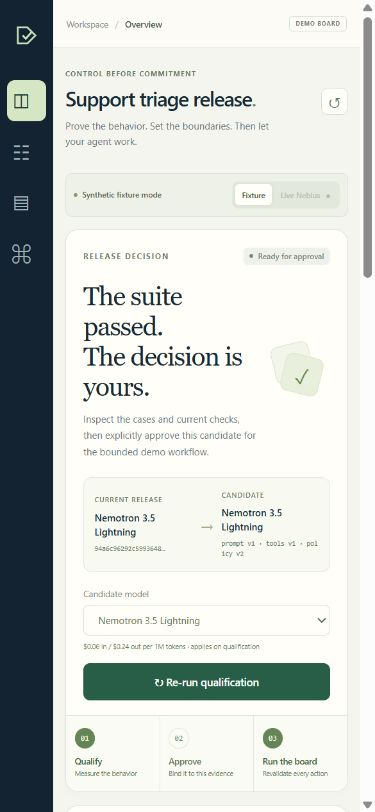
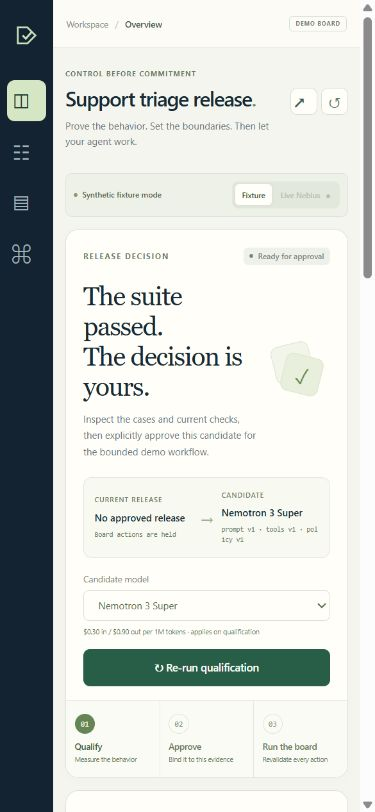
Require durable live budget authority and retain interrupted reservations

diff --git a/web/styles.css b/web/styles.css
@@ -3,7 +3,7 @@
 @media(min-width:1500px){main{padding-top:42px}.page-heading{margin-bottom:30px}.overview-grid{gap:22px}.panel{padding:27px}.release-card{padding-bottom:0}.workflow-steps{margin:0 -27px}.decision-heading h2{font-size:36px}.decision-heading p{font-size:12px}.model-comparison{padding:20px}.release-controls{margin-top:22px;margin-bottom:24px}.governance-card{grid-column:span 1}.drift-card{grid-column:span 2}}
 @media(max-width:1200px){.sidebar{width:210px;padding-left:15px;padding-right:15px}.app-shell{margin-left:210px}.brand{font-size:19px}.brand-mark{width:31px}.stack .workspace-label{font-size:7px}.stack small{font-size:8px}main{padding:28px 24px 0}.topbar{padding:0 24px}.overview-grid{grid-template-columns:minmax(0,1fr) minmax(0,1fr)}.release-card{grid-column:span 2}.budget-card{grid-column:span 1;grid-row:2}.governance-card{grid-column:span 1;grid-row:2}.drift-card{grid-column:span 2}.decision-heading p{max-width:440px}.proof-glyph{margin-right:35px}.release-controls .model-picker{max-width:350px}.step{padding:16px 23px}.source-indicator>span:last-child{display:none}.section-heading{align-items:start}.section-heading .button-row{justify-content:flex-end;max-width:330px}.metrics-grid{gap:10px}.metric-card{padding:17px 14px}.metric-card strong{font-size:24px}.page-heading h1{font-size:28px}}
 @media(max-width:850px){.sidebar{width:72px;padding:22px 10px;align-items:center}.brand>span,.sidebar>.workspace-label,.workspace,.sidebar-note,.stack,.sidebar-footer,.nav-arrow,.nav-count{display:none}.brand-mark{width:35px;height:35px}.navigation{margin-top:35px;gap:10px;width:100%}.nav-item{font-size:0;justify-content:center;padding:13px 5px}.nav-icon{font-size:23px;width:25px}.app-shell{margin-left:72px}.topbar{height:56px;padding:0 20px}main{padding:26px 20px 0}.page-heading{align-items:start}.page-heading h1{font-size:25px}.page-heading p{max-width:300px;font-size:11px}.eyebrow{font-size:8px}.heading-actions .button{font-size:0;width:33px;height:33px;padding:0}.heading-actions .button span{font-size:17px}.page-heading{gap:10px}.overview-grid{gap:13px}.panel{padding:20px}.release-card{padding-bottom:0}.workflow-steps{margin:0 -20px}.step{padding:14px;gap:7px}.step small{font-size:7px}.governance-card,.budget-card{padding:18px}.budget-total>strong{font-size:29px}.panel h3{font-size:18px}.source-indicator strong{font-size:9px}.bottom-note .text-button{display:none}.main-footer{font-size:8px}.main-footer>span:last-child{display:none}.section-heading{flex-direction:column;gap:15px}.section-heading .button-row{max-width:none;justify-content:flex-start}.metrics-grid{grid-template-columns:repeat(2,1fr)}.evidence-grid,.issue-grid{grid-template-columns:1fr}.case-item>summary{grid-template-columns:18px 1fr 65px 20px;gap:6px}.case-item>summary>.case-numeric:nth-last-child(2){display:none}.case-title{font-size:10px}.case-comparison{grid-template-columns:1fr}.busy-banner small{display:none}.toast{left:calc(50% + 36px);width:calc(100% - 115px);font-size:11px}.event-row{grid-template-columns:22px minmax(0,1fr) 90px}.decision-heading h2{font-size:30px}.proof-glyph{margin-right:5px}.governance-card .button-row{gap:5px}.governance-card .button.small{padding:7px;font-size:8px}}
-@media(max-width:560px){.sidebar{width:55px;padding:19px 7px}.brand-mark{width:30px}.app-shell{margin-left:55px}.navigation{margin-top:29px}.nav-item{padding:11px 4px}.nav-icon{font-size:21px}.topbar{padding:0 14px;height:50px}.breadcrumb{font-size:9px;gap:7px}.topbar-right{gap:0}.environment-tag{font-size:6px;letter-spacing:.6px}.session-tag{display:none}main{padding:22px 13px 0}.page-heading h1{font-size:21px;letter-spacing:-.8px}.page-heading p{font-size:10px;max-width:230px;line-height:1.6}.page-heading .eyebrow{font-size:7px;letter-spacing:1px}.heading-actions{gap:4px;padding-top:19px}.heading-actions .button{display:none}.icon-button{width:28px;height:28px;font-size:16px}.mode-bar{padding:8px;gap:7px;border-radius:7px;margin-bottom:13px}.source-indicator{gap:5px}.source-indicator strong{font-size:8px;white-space:normal;line-height:1.4;max-width:100px}.source-dot{width:4px;height:4px;flex-shrink:0}.mode-button{font-size:8px;padding:5px 7px}.overview-grid{grid-template-columns:1fr;gap:13px}.release-card,.budget-card,.governance-card,.drift-card{grid-column:auto;grid-row:auto}.panel{padding:18px}.release-card{padding-bottom:0}.panel-top{margin-bottom:17px}.panel-top .eyebrow{font-size:8px;letter-spacing:1.1px}.badge{font-size:8px;padding:4px 6px}.decision-heading{gap:12px;margin-bottom:18px}.decision-heading h2{font-size:27px;letter-spacing:-.8px}.decision-heading p{font-size:10px;margin-top:9px;line-height:1.7}.proof-glyph{flex-basis:50px;width:50px;height:66px;margin:0 9px 0 0}.proof-glyph>div{width:40px;height:40px;left:0;top:5px;border-radius:8px}.proof-glyph>div+div{left:10px;top:17px}.proof-glyph>span{inset:23px 0 0 22px;font-size:21px}.model-comparison{padding:13px 11px;gap:8px;grid-template-columns:1fr 15px 1fr}.model-comparison strong{font-size:10px}.field-label{font-size:7px;letter-spacing:.7px}.model-comparison small{font-size:7px}.compare-arrow{font-size:17px}.release-controls{align-items:stretch;flex-direction:column;gap:12px;margin:15px 0}.release-controls .model-picker{max-width:none}.release-controls .button{font-size:11px;padding:11px}.workflow-steps{margin:0 -18px}.step{padding:13px 9px;flex-direction:column;align-items:flex-start;gap:6px}.step>span{width:21px;height:21px;font-size:8px}.step strong{font-size:9px}.step small{font-size:7px;white-space:normal;line-height:1.5}.budget-card .panel-top{margin-bottom:8px}.budget-track{margin-top:18px}.budget-facts{margin-top:17px}.budget-facts>div{font-size:11px}.budget-legend{font-size:9px;gap:16px}.card-footnote{font-size:9px}.panel h3{font-size:19px}.section-description{font-size:10px}.check-row{font-size:10px}.governance-card .button.small{font-size:10px;padding:8px 10px}.drift-stat-row{gap:7px}.drift-stat-row strong{font-size:21px}.drift-stat-row>div:last-child strong{font-size:13px}.canary-controls{gap:9px;flex-direction:column;align-items:stretch}.canary-controls .button{padding:10px;font-size:10px}.mitigation-actions{gap:5px}.mitigation-actions button{padding:8px 5px;font-size:9px;gap:6px}.bottom-note{align-items:start;margin-top:17px;gap:10px}.bottom-note p{font-size:9px}.bottom-note>span{font-size:21px}.section-heading h2{font-size:24px}.section-heading p{font-size:10px}.section-heading .button-row{gap:6px}.section-heading .button-row select{font-size:9px;flex:1}.section-heading .button-row .button{width:100%;margin-top:3px}.metric-card{padding:15px}.metric-card strong{font-size:23px}.metric-card small{font-size:8px}.case-item>summary{grid-template-columns:15px 1fr 20px}.case-item>summary>.case-numeric{display:none}.case-title{font-size:10px}.empty-state{padding:25px 7px 33px}.empty-state p{font-size:10px}.empty-state h3{font-size:18px}.case-meta{font-size:8px;gap:8px}.code-block pre{font-size:9px}.page-footnote{font-size:9px}.issue-card{padding:18px}.issue-body{font-size:10px}.issue-card h3{font-size:15px}.issue-bottom .button{font-size:9px;padding:8px}.event-row{grid-template-columns:19px minmax(0,1fr);gap:9px}.event-right{grid-column:2;text-align:left;display:flex;align-items:center;gap:10px;margin-top:-5px}.event-time{margin:0}.event-title{font-size:10px}.event-detail{font-size:9px}.main-footer{margin-top:28px;font-size:8px}.toast{left:calc(50% + 27px);width:calc(100% - 85px);bottom:15px;padding:11px 14px}.error-banner{font-size:10px;padding:10px}.busy-banner{font-size:10px;padding:9px 11px}.skip-link{left:65px}}
+@media(max-width:560px){.sidebar{width:55px;padding:19px 7px}.brand-mark{width:30px}.app-shell{margin-left:55px}.navigation{margin-top:29px}.nav-item{padding:11px 4px}.nav-icon{font-size:21px}.topbar{padding:0 14px;height:50px}.breadcrumb{font-size:9px;gap:7px}.topbar-right{gap:0}.environment-tag{font-size:6px;letter-spacing:.6px}.session-tag{display:none}main{padding:22px 13px 0}.page-heading h1{font-size:21px;letter-spacing:-.8px}.page-heading p{font-size:10px;max-width:230px;line-height:1.6}.page-heading .eyebrow{font-size:7px;letter-spacing:1px}.heading-actions{gap:4px;padding-top:19px}.heading-actions .button{display:inline-flex;width:28px;height:28px}.icon-button{width:28px;height:28px;font-size:16px}.mode-bar{padding:8px;gap:7px;border-radius:7px;margin-bottom:13px}.source-indicator{gap:5px}.source-indicator strong{font-size:8px;white-space:normal;line-height:1.4;max-width:100px}.source-dot{width:4px;height:4px;flex-shrink:0}.mode-button{font-size:8px;padding:5px 7px}.overview-grid{grid-template-columns:1fr;gap:13px}.release-card,.budget-card,.governance-card,.drift-card{grid-column:auto;grid-row:auto}.panel{padding:18px}.release-card{padding-bottom:0}.panel-top{margin-bottom:17px}.panel-top .eyebrow{font-size:8px;letter-spacing:1.1px}.badge{font-size:8px;padding:4px 6px}.decision-heading{gap:12px;margin-bottom:18px}.decision-heading h2{font-size:27px;letter-spacing:-.8px}.decision-heading p{font-size:10px;margin-top:9px;line-height:1.7}.proof-glyph{flex-basis:50px;width:50px;height:66px;margin:0 9px 0 0}.proof-glyph>div{width:40px;height:40px;left:0;top:5px;border-radius:8px}.proof-glyph>div+div{left:10px;top:17px}.proof-glyph>span{inset:23px 0 0 22px;font-size:21px}.model-comparison{padding:13px 11px;gap:8px;grid-template-columns:1fr 15px 1fr}.model-comparison strong{font-size:10px}.field-label{font-size:7px;letter-spacing:.7px}.model-comparison small{font-size:7px}.compare-arrow{font-size:17px}.release-controls{align-items:stretch;flex-direction:column;gap:12px;margin:15px 0}.release-controls .model-picker{max-width:none}.release-controls .button{font-size:11px;padding:11px}.workflow-steps{margin:0 -18px}.step{padding:13px 9px;flex-direction:column;align-items:flex-start;gap:6px}.step>span{width:21px;height:21px;font-size:8px}.step strong{font-size:9px}.step small{font-size:7px;white-space:normal;line-height:1.5}.budget-card .panel-top{margin-bottom:8px}.budget-track{margin-top:18px}.budget-facts{margin-top:17px}.budget-facts>div{font-size:11px}.budget-legend{font-size:9px;gap:16px}.card-footnote{font-size:9px}.panel h3{font-size:19px}.section-description{font-size:10px}.check-row{font-size:10px}.governance-card .button.small{font-size:10px;padding:8px 10px}.drift-stat-row{gap:7px}.drift-stat-row strong{font-size:21px}.drift-stat-row>div:last-child strong{font-size:13px}.canary-controls{gap:9px;flex-direction:column;align-items:stretch}.canary-controls .button{padding:10px;font-size:10px}.mitigation-actions{gap:5px}.mitigation-actions button{padding:8px 5px;font-size:9px;gap:6px}.bottom-note{align-items:start;margin-top:17px;gap:10px}.bottom-note p{font-size:9px}.bottom-note>span{font-size:21px}.section-heading h2{font-size:24px}.section-heading p{font-size:10px}.section-heading .button-row{gap:6px}.section-heading .button-row select{font-size:9px;flex:1}.section-heading .button-row .button{width:100%;margin-top:3px}.metric-card{padding:15px}.metric-card strong{font-size:23px}.metric-card small{font-size:8px}.case-item>summary{grid-template-columns:15px 1fr 20px}.case-item>summary>.case-numeric{display:none}.case-title{font-size:10px}.empty-state{padding:25px 7px 33px}.empty-state p{font-size:10px}.empty-state h3{font-size:18px}.case-meta{font-size:8px;gap:8px}.code-block pre{font-size:9px}.page-footnote{font-size:9px}.issue-card{padding:18px}.issue-body{font-size:10px}.issue-card h3{font-size:15px}.issue-bottom .button{font-size:9px;padding:8px}.event-row{grid-template-columns:19px minmax(0,1fr);gap:9px}.event-right{grid-column:2;text-align:left;display:flex;align-items:center;gap:10px;margin-top:-5px}.event-time{margin:0}.event-title{font-size:10px}.event-detail{font-size:9px}.main-footer{margin-top:28px;font-size:8px}.toast{left:calc(50% + 27px);width:calc(100% - 85px);bottom:15px;padding:11px 14px}.error-banner{font-size:10px;padding:10px}.busy-banner{font-size:10px;padding:9px 11px}.skip-link{left:65px}}
 @media(prefers-reduced-motion:reduce){*,*:before,*:after{scroll-behavior:auto!important;transition:none!important;animation:none!important}}
 .model-picker small{display:block;margin-top:6px;font-size:8px;color:#8e9a80;line-height:1.6}.audit-panel{margin-bottom:18px}.audit-node{border-top:1px solid #e5eadc;padding:12px 0}.audit-node summary{display:grid;grid-template-columns:95px minmax(0,1fr) auto 18px;align-items:center;gap:10px;list-style:none;cursor:pointer}.audit-kind{font-size:9px;color:#7d946c;font-weight:600}.audit-name{font-size:10px;color:#98a88a;overflow:hidden;text-overflow:ellipsis;white-space:nowrap}.audit-node .code-block{margin-top:12px}.audit-node[open] .case-expand{transform:rotate(45deg)}@media(max-width:560px){.audit-node summary{grid-template-columns:70px minmax(0,1fr) 18px;gap:7px}.audit-node summary .badge{display:none}.model-picker small{font-size:7px}}
 .section-description,.card-footnote,.budget-caption,.budget-legend,.budget-facts>div,.drift-detail,.page-footnote,.issue-body,.event-detail,.empty-inline,.metric-card small,.step small,.case-meta,.version-item small,.counter-grid span,.model-picker small{color:#687b60}.section-description,.card-footnote{font-size:11px}.model-comparison small,.field-label,.eyebrow,.source-indicator,.session-tag{color:#6d7c65}.main-footer,.bottom-note p{color:#78876d}.stack small{color:#91a5ac}.sidebar-footer{color:#a7bbc0}.budget-facts strong{color:#415a39}.issue-draft{color:#4d693e}

diff --git a/artifacts/branding/title-card.html b/artifacts/branding/title-card.html
@@ -1,0 +1,2 @@
+<!doctype html>
+<html lang="en"><head><meta charset="utf-8"><meta name="viewport" content="width=device-width,initial-scale=1"><title>ReleaseProof — submission title card</title><style>*{box-sizing:border-box}html,body{margin:0;width:1200px;height:800px;overflow:hidden;background:#142532}img{display:block;width:1200px;height:800px}</style></head><body><img src="releaseproof-title.svg" width="1200" height="800" alt="ReleaseProof. Know which agent release is allowed to act—and why. Smart budgeting, smart governance, drift mitigation."></body></html>

diff --git a/tests/test_api.py b/tests/test_api.py
@@ -264,6 +264,37 @@ def test_restart_of_interrupted_approved_operation_requires_requalification(tmp_
         assert not attempted["governance"]["approval_valid"]
 
 
+@pytest.mark.parametrize("project_setting", [None, ""])
+def test_live_key_and_enable_flag_require_durable_firestore(tmp_path, monkeypatch, project_setting):
+    monkeypatch.setenv("RELEASEPROOF_LIVE_ENABLED", "1")
+    monkeypatch.setenv("RELEASEPROOF_LIVE_LIMIT_USD", "5")
+    if project_setting is None:
+        monkeypatch.delenv("RELEASEPROOF_FIRESTORE_PROJECT", raising=False)
+    else:
+        monkeypatch.setenv("RELEASEPROOF_FIRESTORE_PROJECT", project_setting)
+
+    dispatched = []
+    monkeypatch.setattr(provider, "live", lambda request: dispatched.append(request))
+    # A replacement ephemeral database must not grant a new live allowance either.
+    for database in ("first.sqlite3", "replacement.sqlite3"):
+        app = create_app(tmp_path / database)
+        with TestClient(app) as client:
+            health = client.get("/api/health").json()
+            assert health["live_available"] is False
+            assert health["spending_authority_available"] is False
+            assert "requires the durable Firestore" in health["storage"]
+            assert engine.LIVE_BILLING is None
+            sid = create(client)["session_id"]
+            response = client.post(f"/api/sessions/{sid}/actions", json={
+                "action": "qualify", "payload": {"mode": "live", "suite": "quick"}})
+            assert response.status_code == 409
+            assert not client.get(f"/api/sessions/{sid}").json()["busy"]
+            fixture = run(client, sid, "qualify", mode="fixture", suite="quick")
+            assert fixture["qualification"]["status"] == "passed"
+            assert fixture["metrics"]["live_calls"] == 0
+    assert not dispatched
+
+
 def test_configured_remote_authority_never_falls_back_to_local(tmp_path, monkeypatch):
     from releaseproof import server
     from releaseproof.cloud_ledger import FirestoreLedger

diff --git a/releaseproof/server.py b/releaseproof/server.py
@@ -71,12 +71,13 @@ def create_app(db_path: str | Path | None = None) -> FastAPI:
 
     def live_available():
         enabled = bool(os.environ.get("NEBIUS_API_KEY")) and os.environ.get("RELEASEPROOF_LIVE_ENABLED") == "1"
-        return bool(enabled and ledger_status()[0])
+        # Ephemeral SQLite must never become a fresh live allowance after restart.
+        return bool(enabled and remote_ledger and ledger_status()[0])
 
     @asynccontextmanager
     async def lifespan(_app):
         store.recover_interrupted()
-        engine.LIVE_BILLING = ledger
+        engine.LIVE_BILLING = ledger if remote_ledger else None
         yield
         executor.shutdown(wait=True, cancel_futures=True)
 
@@ -121,10 +122,10 @@ def create_app(db_path: str | Path | None = None) -> FastAPI:
         return {"status": "ok", "live_available": live_available(), "provider": "Nebius Token Factory",
                 "versions": {name: importlib.metadata.version(name) for name in ("pollard", "hashrope", "epicormic")},
                 "storage_bytes": store.path.stat().st_size, "live_budget": totals,
-                "spending_authority_available": ledger_ready,
+                "spending_authority_available": bool(remote_ledger and ledger_ready),
                 "storage_limits": store.storage_totals(),
                 "storage": ("SQLite session state may be ephemeral; Firestore is the durable spending authority."
-                            if remote_ledger else "SQLite; deployment must preserve runtime storage for live accounting.")}
+                            if remote_ledger else "SQLite stores fixture sessions only. Live inference requires the durable Firestore spending authority.")}
 
     @app.get("/api/catalog")
     def catalog():

diff --git a/tests/test_engine.py b/tests/test_engine.py
@@ -188,6 +188,27 @@ def test_unexpected_provider_processing_failure_keeps_reservation_and_sanitizes_
     assert state["budget"]["reserved_usd"] == 0
 
 
+@pytest.mark.parametrize("interruption", [KeyboardInterrupt, SystemExit])
+def test_interrupted_dispatch_keeps_full_reservation_without_retry(monkeypatch, interruption):
+    ledger = FakeGlobalLedger()
+    monkeypatch.setattr(engine, "LIVE_BILLING", ledger)
+    dispatched = []
+
+    def interrupted(request):
+        dispatched.append(request)
+        raise interruption("Interrupted after entering the provider dispatch boundary")
+
+    monkeypatch.setattr(engine.provider, "live", interrupted)
+    state = new_state("interrupted-live")
+    with pytest.raises(interruption):
+        perform(state, "qualify", {"mode": "live", "suite": "full"}, live_enabled=True)
+
+    assert len(dispatched) == len(ledger.reservations) == 1
+    assert ledger.reservations[0] > 0
+    assert ledger.settlements == [("1", ledger.reservations[0])]
+    assert state["_budgets"]["live"] == {"spent": ledger.reservations[0], "reserved": 0}
+
+
 def test_live_fallback_never_substitutes_an_approved_fixture(monkeypatch):
     state = approved()
     monkeypatch.setattr(engine, "LIVE_BILLING", FakeGlobalLedger(refuse=True))

diff --git a/releaseproof/engine.py b/releaseproof/engine.py
@@ -346,6 +346,9 @@ def _call(state: dict, store: HashRopeStore, issue: dict, mode: str, *, recovery
                 if LIVE_BILLING is None:
                     raise provider.ProviderFailure("The server's global live-spending authority is not configured.")
                 global_id = LIVE_BILLING.reserve(worst)
+                # Dispatch may be interrupted by BaseException before usage arrives.
+                # Only validated usage can release a committed live reservation.
+                observed_cost = worst
             state["metrics"]["live_calls" if mode == "live" else "fixture_calls"] += 1
             try:
                 if mode == "live":

diff --git a/docs/JUDGE_GUIDE.md b/docs/JUDGE_GUIDE.md
@@ -1,0 +1,38 @@
+# Judge guide
+
+ReleaseProof helps a developer decide whether an exact issue-triage agent release may act. It combines full-workflow qualification, a protected inference budget, explicit approval, and future-action holds. The board is isolated application state; it does not contact a real customer or modify GitHub issues.
+
+- Application: [ReleaseProof demo](https://jemsbhai-releaseproof.hf.space)
+- Source: [jemsbhai/releaseproof](https://github.com/jemsbhai/releaseproof)
+- Track: **Best Apps and Agents**
+- Publication status when this guide was drafted: local fixture verification and public source/MIT-license verification complete; final public-host workflow verification, live Nebius evidence, and public demo video **pending**. Those items must be verified before final submission.
+
+## Reproducible fixture walkthrough
+
+No account or API key is needed for the labelled fixture workflow. If a free host is waking up, allow it to finish loading. A browser receives an isolated session.
+
+1. Keep **Synthetic fixture** selected. Open **Qualification**, choose **Full suite** and **1 repetition**, then run it. Expect eight synthetic checks, including security, forged-authority, instruction-injection, and clarification cases. These deterministic results do not measure an NVIDIA model. The quick four-case suite is a smoke test only and cannot authorize a release.
+2. Inspect a case's expected decision, actual result, source and usage. Return to Overview and choose **Approve this candidate**. Approval is bound to the exact current contract and evidence.
+3. Open the issue board and process the first issue. Its label becomes `bug`, its route `engineering`, and a draft is saved. Nothing is sent externally. These four board cases have known gold decisions that the server checks before applying a demo action.
+4. Under governance, edit the prompt version. The old approval becomes invalid. On the board, choose **Try governed action** to inspect a real server refusal. The earlier board result remains; the next issue is not changed. Inspect the Pollard refusal in Evidence & activity.
+5. Run the **Full suite** again and explicitly approve the new candidate. Compare the two recorded runs: both retain their source and configuration identity. Fixture comparisons demonstrate the workflow, not relative model quality.
+6. Run **Inject a behavior shift** in the controlled canary selector. The repeated observations are synthetic fault injection. Inspect the hold, then try the next board action. The hold controls future actions and never claims to undo the completed issue.
+7. Choose **Requalify**, inspect the new full result, and explicitly approve again. A fallback instead restores a previously approved configuration in the same source mode and still requires fresh qualification and approval.
+8. Export evidence. To demonstrate budget refusal, lower the session allowance below the required call reservation and rerun a qualification. The decision log explains the refused dispatch. Restore a usable allowance before continuing.
+
+## Live evaluation
+
+Live inference uses NVIDIA Nemotron through Nebius Token Factory. It is enabled only when the server has provider credentials, explicit live enablement, and a configured, healthy shared Firestore spending authority. This also applies to local reproduction: SQLite alone supports fixtures, with no live opt-in or fallback. A fixture approval cannot authorize a live call. Select **Live Nebius** when available, run the full suite, and inspect actual observed outcomes before promotion; a failed result must remain a failed result.
+
+For an optional live behavioral comparison, first qualify with **2 repetitions**. The live probe obtains fresh provider observations under that same contract and compares label, route, and human-review decisions with the original recorded calls. Draft wording is excluded. The analysis replays recorded observations without making extra inference requests. Two samples per case have low statistical power: no detected change is not proof of equivalence or safety. Failed/incomplete observations may hold the release independently of the statistical verdict.
+
+Live metrics and video are **pending verification** at guide creation; fixture counts are not substitutes. Authenticated catalog and price checks confirmed the three candidate IDs and rates, but did not run inference. [Recorded rates](EVALUATION.md#verified-catalog-and-price-assumptions) exclude applicable taxes. Token-based cost estimates include qualification and probe overhead, and are not authoritative invoices. Public live access may refuse work once the shared allowance is exhausted or the spending authority is unavailable.
+
+## Boundaries and inspection
+
+- Sessions are limited to 100 accepted actions and 2 MiB of stored state; conservative admission estimates can reject large suites before dispatch. Evidence stays exportable after quota refusal. An explicit reset does not renew the lifetime action count or global inference budget.
+- Hashrope preserves versioned audit content; its fingerprint is noncryptographic. SHA-256 seals provide the recorded integrity checks. A fingerprint does not establish truth.
+- Epicormic measures behavioral differences, not general task correctness, security, or the cause of a change. Declared configuration changes and injected faults are labelled separately from live observations.
+- No Tavily integration or city-attendance award is claimed. Preexisting libraries and the new application work are disclosed in [New work](NEW_WORK.md); dependency license texts are in [Notices](../THIRD_PARTY_NOTICES.md).
+
+For local reproduction, use the commands in [README](../README.md). The tests are offline and do not spend API credits.

diff --git a/README.md b/README.md
@@ -21,7 +21,7 @@ python -m uvicorn releaseproof.server:app --host 127.0.0.1 --port 7860
 
 Open <http://127.0.0.1:7860>. The server serves the buildless web UI; no Node installation, model download, or GPU is needed. The main dependencies are Pollard 1.6.2, Epicormic 0.2.0, Hashrope 0.2.2, FastAPI, Uvicorn, and HTTPX. Pytest is used for development verification. The repository's dependency file is authoritative.
 
-The default mode uses clearly labelled synthetic fixtures. **Fixture results are not measurements of Nemotron quality.** A live run requires an NVIDIA model served through Nebius Token Factory.
+The default mode uses clearly labelled synthetic fixtures. **Fixture results are not measurements of Nemotron quality.** SQLite alone supports this fixture workflow. Every live run requires an NVIDIA model served through Nebius Token Factory and a configured, healthy Firestore spending authority.
 
 ## Enable Nebius inference
 
@@ -29,6 +29,8 @@ Use server environment variables, never client-side JavaScript or committed cred
 
 ```powershell
 $env:NEBIUS_API_KEY = "<your private API key>"
+$env:RELEASEPROOF_FIRESTORE_PROJECT = "<your Google Cloud project ID>"
+$env:GOOGLE_SERVICE_ACCOUNT_JSON = Get-Content -Raw "<private service-account JSON path>"
 $env:RELEASEPROOF_LIVE_ENABLED = "1"
 $env:RELEASEPROOF_LIVE_LIMIT_USD = "5"
 python -m uvicorn releaseproof.server:app --host 127.0.0.1 --port 7860
@@ -36,9 +38,9 @@ python -m uvicorn releaseproof.server:app --host 127.0.0.1 --port 7860
 
 For a POSIX shell, use `export NAME=value`. The example file `.env.example` documents the supported settings; setting values there alone does not load them into the process. Keep keys in the host's secret store for a public deployment. `/api/health` reports whether live inference is available without exposing credentials.
 
-An ephemeral host must use the durable Firestore spending authority configured by `RELEASEPROOF_FIRESTORE_PROJECT` and the private `GOOGLE_SERVICE_ACCOUNT_JSON` secret. Initialize that budget separately as an operator; the runtime does not create or reset it. If the configured authority is missing or unavailable, live dispatch stops and fixture mode remains usable. A configured Firestore backend never falls back to a fresh SQLite allowance. Without Firestore, preserve the SQLite database across restarts.
+Firestore is mandatory for live inference on both local and public hosts. Before enabling live mode, create the default Firestore database and initialize the shared budget once with [the operator script](scripts/initialize_cloud_ledger.py), using the intended allowance and carrying forward any prior spend or unresolved reservations. Give the server's service account access to that database. All instances must share the same authority; creating another ledger is not a budget reset. The runtime reads `RELEASEPROOF_FIRESTORE_PROJECT` and the private `GOOGLE_SERVICE_ACCOUNT_JSON` secret; it does not create or reset the budget. Missing configuration, credentials, initialization, or ledger availability blocks live dispatch. There is no SQLite live opt-in or fallback. Fixture workflows remain usable without Firestore.
 
-Model IDs, availability, prices, and credentials must be checked against the current Nebius account before a live run. The UI displays its pricing assumptions. Spend shown from token usage is an estimate, not the provider's authoritative bill. Ollama or other providers are not substitutes for the hackathon's required Nebius runtime call.
+The three candidate model IDs and input/output prices were checked against the authenticated Nebius account on October 30, 2026; see [the recorded pricing assumptions](docs/EVALUATION.md#verified-catalog-and-price-assumptions). Catalog visibility is not proof of a successful inference request; live measurements remain pending. Recheck availability and prices before a live run. The UI displays its pricing assumptions, excluding applicable taxes. Spend shown from token usage is an estimate, not the provider's authoritative bill. Ollama or other providers are not substitutes for the hackathon's required Nebius runtime call.
 
 ## Try the workflow
 
@@ -69,6 +71,8 @@ python -m pytest -q
 ```
 
 Tests use fixtures and do not spend Nebius credits. Live model evaluation is a separate, explicitly enabled action. The interface exposes `/api/health`, `/api/catalog`, isolated capability-based sessions, and a downloadable evidence packet; see [API contract](docs/CONTRACT.md).
+
+Latest offline verification, October 30, 2026: **87 tests passed**. This does not verify live model quality or provider availability.
 
 ## Scope and limitations
 

diff --git a/docs/ARCHITECTURE.md b/docs/ARCHITECTURE.md
@@ -9,7 +9,8 @@ flowchart LR
     Engine --> Versions[Hashrope content versions]
     Engine --> Gate[Pollard execution gate]
     Gate --> Budget[Reserve worst-case cost]
-    Budget --> Model[Nemotron on Nebius Token Factory]
+    Budget --> Ledger[Required shared Firestore authority]
+    Ledger --> Model[Nemotron on Nebius Token Factory]
     Model --> Checks[Deterministic task checks]
     Checks --> Evidence[Qualification evidence]
     Evidence --> Promote[Explicit promotion]
@@ -23,7 +24,7 @@ flowchart LR
 
 ## Release contract
 
-The current model identifier, prompt version, tool version, policy version, and evidence identity form the release contract. Qualification evaluates that contract. Promotion is an explicit server action, and execution validates the current contract again. Changes invalidate old approval rather than silently reusing it.
+The current model identifier, prompt version, tool version, policy version, and evidence identity form the release contract. A canonical SHA-256 fingerprint binds its identity; Hashrope preserves versioned execution evidence and its own fingerprint is noncryptographic. Qualification evaluates that contract. Promotion is an explicit server action, and execution validates the current contract again. Changes invalidate old approval rather than silently reusing it.
 
 Promotion requires the full eight-case qualification corpus. The quick four-case suite is a smoke test only. Request settings use JSON output with thinking disabled and a declared output-token cap; these settings are part of the configuration identity. Prompts and stored completion text are limited to 8 KiB each, and the provider response envelope to 64 KiB, so the API can reserve conservative audit-storage growth before dispatch.
 
@@ -37,7 +38,7 @@ Normal work cannot consume the configured validation/recovery reserve. The workb
 
 Session budgets and the operator's total hosting/inference authorization are separate limits. A new browser session must not reset the operator's allowance. Deployment operators must preserve the global spend ledger and the hosting provider's own limits across restarts.
 
-An optional Firestore ledger provides the durable spending authority for hosts with ephemeral session storage. It stores budget counters and opaque reservation identities, not issue content or provider keys. The runtime requires an existing budget document; missing credentials, initialization, or ledger availability disables live dispatch without replacing it with a new local allowance. Fixture workflows remain available. Remote health checks are cached for 15 seconds; every live reservation still goes through the authority.
+Firestore is the mandatory durable spending authority for every live deployment, including local runs. SQLite stores fixture sessions and application state; it cannot authorize live calls. The Firestore ledger stores budget counters and opaque reservation identities, not issue content or provider keys. The runtime requires a configured project, valid service-account JSON credentials, and an existing budget document. Missing configuration, credentials, initialization, or ledger availability disables live dispatch without replacing it with a new local allowance. There is no SQLite live opt-in. Fixture workflows remain available. Remote health checks are cached for 15 seconds; every live reservation still goes through the authority. All running instances use the same authority so new sessions and host restarts cannot renew the allowance.
 
 ## Drift and mitigation
 

diff --git a/docs/EVALUATION.md b/docs/EVALUATION.md
@@ -35,8 +35,20 @@ The quick suite is a smoke test only. Promotion requires passing the full eight-
 - Price estimates depend on the displayed input/output token prices and the usage fields returned by the provider. A call must reserve its worst-case allowance before dispatch; reconciliation cannot spend the protected validation/recovery reserve.
 - Model nondeterminism means repeated outcomes can differ. Small samples cannot establish general reliability, model safety, or the cause of a behavioral difference. Passing these cases never proves future correctness.
 
+## Verified catalog and price assumptions
+
+On October 30, 2026, authenticated catalog inspection confirmed all three configured candidates. The account's pricing page showed these rates in USD per million tokens for `eu-north1`, excluding applicable taxes:
+
+| Exact candidate model ID | Input | Output |
+|---|---:|---:|
+| `nvidia/Nemotron-3_5-Lightning` | $0.06 | $0.24 |
+| `nvidia/nemotron-3-super-120b-a12b` | $0.30 | $0.90 |
+| `nvidia/Nemotron-3-Ultra-550b-a55b` | $1.00 | $3.00 |
+
+Evidence: [authenticated catalog snapshot](../artifacts/authenticated-nemotron-catalog.json) and [authenticated price snapshot](../artifacts/authenticated-nebius-prices.json). These checks establish listed availability and pricing assumptions, not successful model execution or measured quality. Live inference measurements are still pending. Recheck the account's current rates before a new evaluation; reported token costs are estimates rather than authoritative bills.
+
 ## What the gate means
 
 A qualification authorizes only its exact tested model, prompt, tools, policy, and evidence contract. Mutating a contract field invalidates the old result. Promotion is a separate explicit action. The server checks the contract again before changing the local demo board.
 
-Epicormic's repeated probes assess behavioral change. They do not prove task correctness or identify why a change occurred. Pollard enforces execution and budget policy. Hashrope preserves exact content versions; its fingerprint is an identity/integrity mechanism, not a truth detector. A hold or fallback only governs future actions and cannot undo completed effects.
+Epicormic's repeated probes assess behavioral change. They do not prove task correctness or identify why a change occurred. Pollard enforces execution and budget policy. Hashrope preserves versioned audit content; its fingerprint is noncryptographic. The application uses canonical SHA-256 fingerprints and seals for contract identity and recorded integrity checks, not to establish the truth of content. A hold or fallback only governs future actions and cannot undo completed effects.

diff --git a/docs/DEMO_SCRIPT.md b/docs/DEMO_SCRIPT.md
@@ -8,7 +8,7 @@ Record the verified final build. Use captions large enough to read. Say the prov
 | 0:15–0:35 | Candidate, model, source badge, real completed triage attempt | “This issue-triage agent uses NVIDIA Nemotron through Nebius Token Factory. It labels an issue, routes it, and prepares a draft. These are synthetic issues; this evidence is [live / recorded live / fixture—use the actual mode].” |
 | 0:35–0:57 | Qualification results and a case trace | “We test the exact prompt, tools, policy, and model. Here are the actual outcomes, including failures and human-review cases. A small benchmark is evidence for this workflow, not a claim of general safety.” |
 | 0:57–1:17 | Budget reservation, observed usage, protected reserve | “Before a call, we reserve its worst-case allowance. We reconcile observed token usage and protect capacity for validation and recovery. Qualification and monitoring have a cost too; these figures include that overhead.” |
-| 1:17–1:37 | Promote and execute, then change a contract field | “Promotion is explicit. Now I change the [prompt/tool/policy]. Hashrope identifies a different contract. The previous pass cannot authorize this version.” |
+| 1:17–1:37 | Promote and execute, then change a contract field | “Promotion is explicit. Now I change the [prompt/tool/policy]. The exact contract fingerprint changes. The previous pass cannot authorize this version. Hashrope preserves the versioned execution evidence.” |
 | 1:37–1:52 | Denied action with reason; unchanged board | “The server refuses the action, rather than just showing a warning. Pollard enforces the execution decision. We need current evidence to proceed.” |
 | 1:52–2:15 | Requalified state, labelled injected-drift canary, hold | “This is a controlled injected-drift experiment, not an incident observed at Nebius. Epicormic compares repeated behavior. The resulting hold prevents future actions; it does not undo completed work.” |
 | 2:15–2:30 | Mitigation, stale fallback denial or valid fallback; evidence export | “Mitigation still needs a valid contract. A fallback does not revive stale approval. The evidence packet records which release was tested, what happened, and why the next action was allowed or refused.” |
